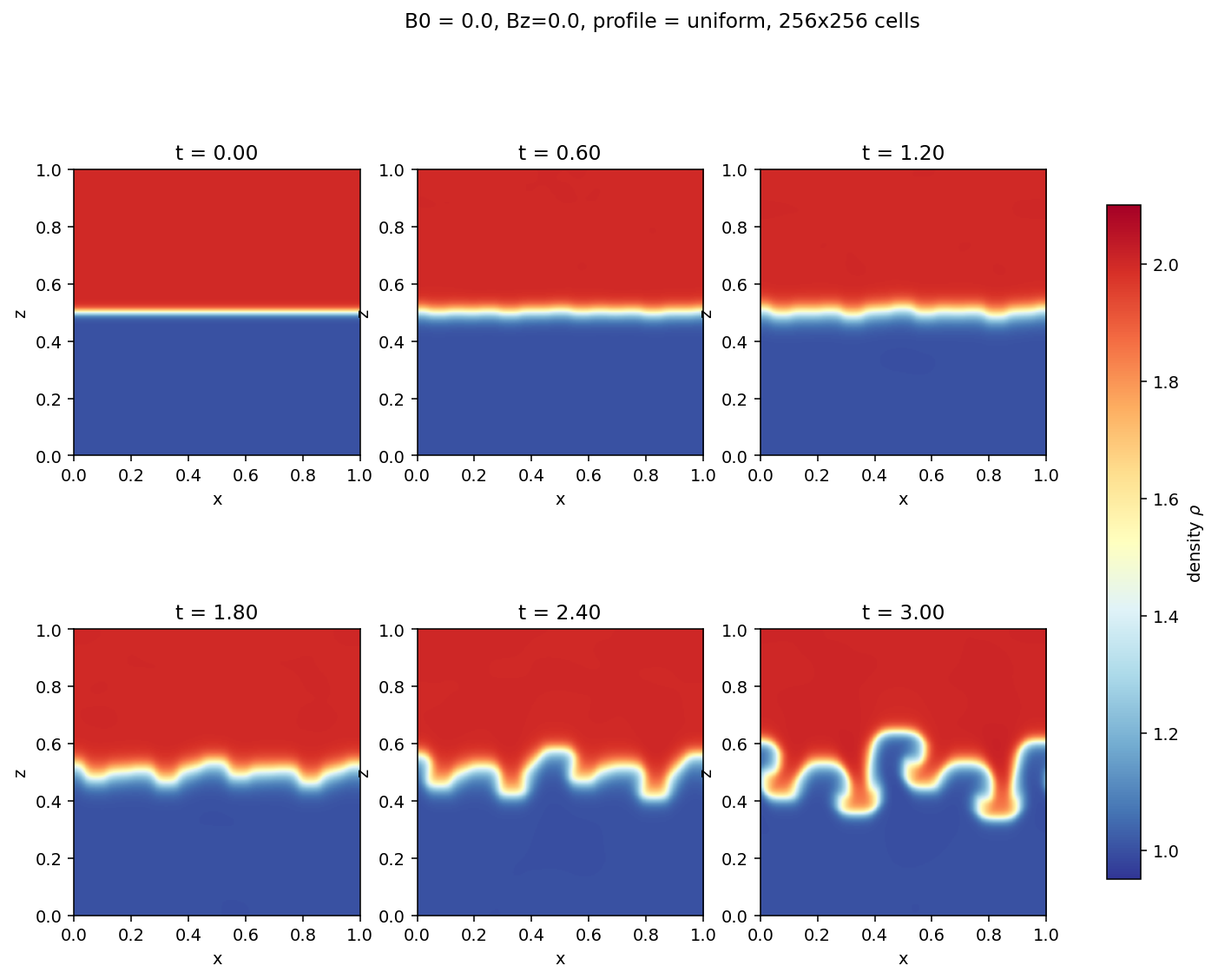
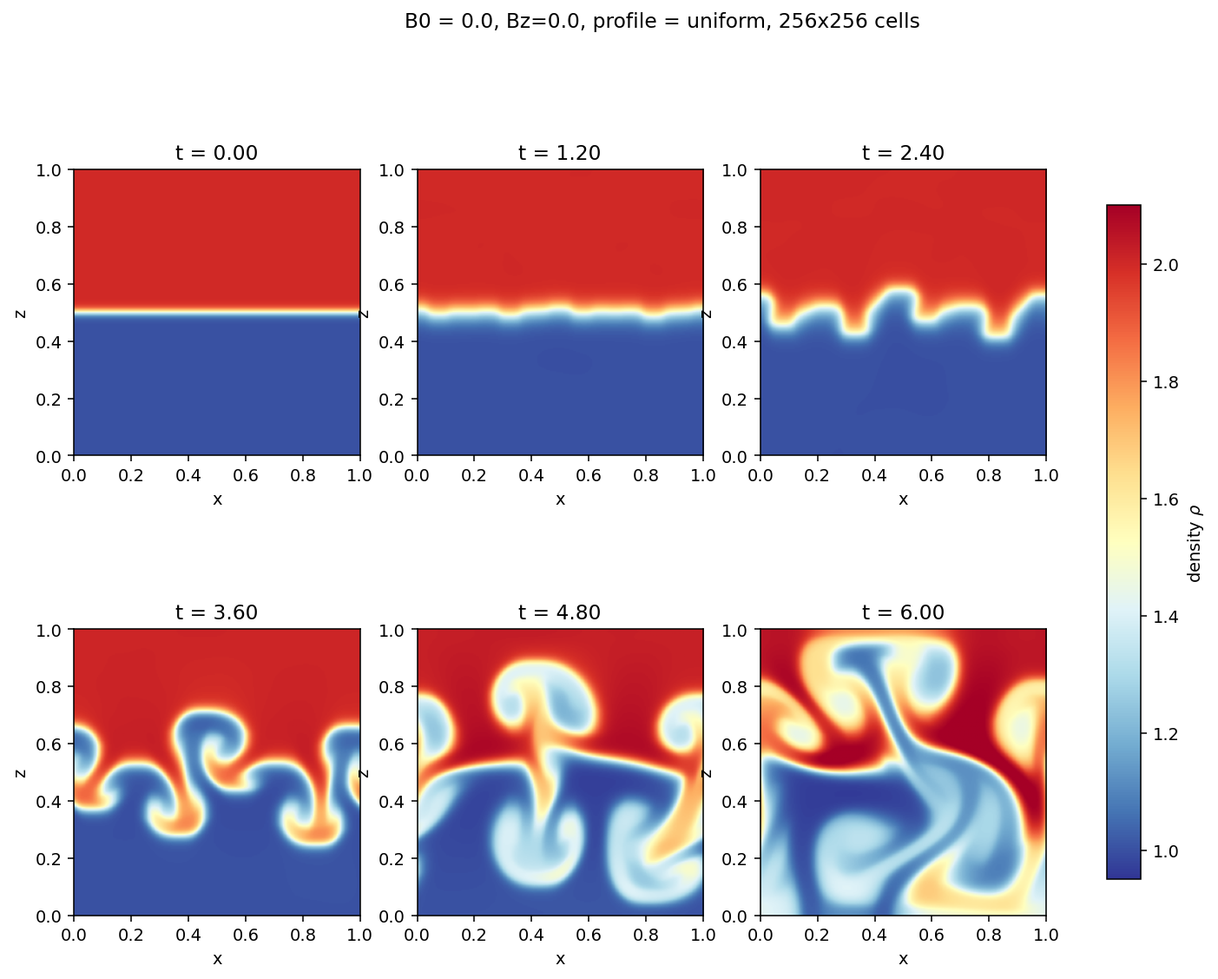
Updated the RTI project results

diff --git a/research_rti.html b/research_rti.html
@@ -148,14 +148,14 @@
                     <h2 class="text-2xl font-serif font-bold text-gray-900">Implications</h2>
                 </div>
                 <p class="text-gray-600 text-sm leading-relaxed text-justify">
-                    Our results confirm that a critical magnetic field $B_c$ exists. If $B > B_c$, the instability is completely suppressed. This explains why certain astrophysical boundaries remain sharp despite strong density contrasts—magnetic tension acts as a "skin" holding the fluid interface together.
+                    Our results confirm that a critical magnetic field $B_c$ exists. If $B > B_c$, the instability is completely suppressed. This explains why certain astrophysical boundaries remain sharp despite strong density contrasts, magnetic tension acts as a "skin" holding the fluid interface together.
                 </p>
             </section>
             <section id="documentation" class="bg-teal-800 text-white rounded-xl p-8 shadow-md">
                 <div class="flex flex-col items-start">
                     <h3 class="text-2xl font-serif font-bold mb-4">Detailed Project Report</h3>
                     <p class="text-slate-300 text-sm mb-6 w-full">
-                        Access the full detailed derivation of effect of magnetic field in supressing RTI including stability region plots and 2-D finite volume analysis code.
+                        Access the full detailed derivation of effect of magnetic field in suppressing RTI including stability region plots and 2-D finite volume analysis code.
                     </p>
                     <a href="RTI in stellar interior.pdf" target="_blank" class="flex items-center px-6 py-3 bg-white text-teal-900 rounded-lg font-bold hover:bg-teal-400 transition-colors shadow-lg group">
                         <i class="fa-solid fa-file-pdf text-xl mr-3 text-teal-600 group-hover:text-slate-900 transition-colors"></i>
@@ -163,6 +163,50 @@
                     </a>
                 </div>
             </section>
+
+             <!-- Embedded Interactive Plot 1: Magnetic Field Stabilization -->
+            <div class="grid grid-cols-1 gap-6 pt-2">
+                <section class="bg-white p-5 rounded-2xl shadow-sm border border-gray-200">
+                    <div class="flex justify-between items-center mb-3 gap-2">
+                        <h3 class="text-lg font-serif font-bold text-gray-900">Magnetic Field Stabilization</h3>
+                        <div class="text-xs text-gray-400 shrink-0">
+                            <i class="fa-solid fa-cube mr-1"></i> Interactive 3D Surface
+                        </div>
+                    </div>
+                    <p class="text-xs text-gray-500 mb-3">
+                        Growth Rate Squared ($\gamma^2$) vs Wavenumber ($k$) and Magnetic Field ($B$). The "valley" indicates stability.
+                    </p>
+                    <div class="h-[320px] w-full border border-gray-100 rounded-lg overflow-hidden bg-white relative">
+                        <iframe src="mag_field.html" title="Magnetic Field Plot" class="w-full h-full border-none">
+                            <p>Your browser does not support iframes. Please open mag_field.html directly.</p>
+                        </iframe>
+                    </div>
+                    <p class="text-xs text-red-400 mt-2 hidden" id="error-msg-1">
+                        <i class="fa-solid fa-triangle-exclamation mr-1"></i> Note: 'mag_field.html' must be in the same directory for this plot to load.
+                    </p>
+                </section>
+
+                <!-- Embedded Interactive Plot 2: Stability Threshold -->
+                <section class="bg-white p-5 rounded-2xl shadow-sm border border-gray-200">
+                    <div class="flex justify-between items-center mb-3 gap-2">
+                        <h3 class="text-lg font-serif font-bold text-gray-900">Stability Threshold Surface</h3>
+                        <div class="text-xs text-gray-400 shrink-0">
+                            <i class="fa-solid fa-cube mr-1"></i> Interactive 3D Surface
+                        </div>
+                    </div>
+                    <p class="text-xs text-gray-500 mb-3">
+                        Critical magnetic field required to suppress the instability as a function of wavenumber and mode parameters.
+                    </p>
+                    <div class="h-[320px] w-full border border-gray-100 rounded-lg overflow-hidden bg-white relative">
+                        <iframe src="threshold_surface.html" title="Threshold Surface Plot" class="w-full h-full border-none">
+                            <p>Your browser does not support iframes. Please open threshold_surface.html directly.</p>
+                        </iframe>
+                    </div>
+                    <p class="text-xs text-red-400 mt-2 hidden" id="error-msg-2">
+                        <i class="fa-solid fa-triangle-exclamation mr-1"></i> Note: 'threshold_surface.html' must be in the same directory for this plot to load.
+                    </p>
+                </section>
+            </div>
         </div>
 
         <!-- Right Column: Visuals & Synthesis -->
@@ -190,25 +234,26 @@
                     Simulation showing the evolution of density. Note the formation of characteristic Kelvin-Helmholtz mushroom structures on the spikes as the instability grows.
                 </p>
             </section>
-
-            
             <!-- Simulation Snapshots: interactive viewer -->
         <section id="snapshots" class="bg-white p-6 rounded-2xl shadow-sm border border-gray-200">
             <div class="flex flex-wrap justify-between items-center gap-2 mb-2">
-                <h3 class="text-lg font-serif font-bold text-gray-900">Simulation Snapshots: Field Geometry Study</h3>
-                <span class="bg-teal-100 text-teal-800 text-xs px-3 py-1 rounded-full font-medium">5 runs</span>
+                <h3 class="text-lg font-serif font-bold text-gray-900">Mode Study: Short Wavelengths Are Stabilized First</h3>
+                <span class="bg-teal-100 text-teal-800 text-xs px-3 py-1 rounded-full font-medium">13 runs</span>
             </div>
             <p class="text-sm text-gray-500 mb-4">
-                Density at six times for each run, with magnetic field lines in black. Pick a run, or compare two side by side. Click an image to enlarge it.
+                Each run perturbs the interface with a single mode <em>m</em> (the number of wavelengths across the box) under a horizontal field B₀. Density is colored and field lines are black. The matrix maps the outcome: high-<em>m</em> (short-wavelength) modes are suppressed first, and the cutoff moves to longer wavelengths as B₀ increases.
             </p>
 
             <div class="flex flex-wrap items-center justify-between gap-3 mb-4">
-                <div id="snap-tabs" role="tablist" aria-label="Simulation runs" class="flex flex-wrap gap-2"></div>
-                <label class="flex items-center gap-2 text-xs text-gray-600 cursor-pointer select-none">
-                    <input type="checkbox" id="snap-compare" class="accent-teal-700"> Compare two runs
-                </label>
+                <div id="snap-modes" role="tablist" class="inline-flex rounded-full border border-gray-200 p-0.5 bg-gray-50 text-xs font-medium">
+                    <button type="button" role="tab" data-mode="explore">Explore</button>
+                    <button type="button" role="tab" data-mode="compare">Compare</button>
+                </div>
+                <div id="snap-legend" class="flex flex-wrap gap-3 text-xs text-gray-600"></div>
             </div>
 
+            <div id="snap-matrix" class="mb-5"></div>
+            <div id="snap-compare-bar" class="hidden mb-5 flex-wrap items-center gap-2"></div>
             <div id="snap-view" class="grid gap-6"></div>
         </section>
 
@@ -223,62 +268,110 @@
 
         <script>
         (() => {
-            // Ordered as a progression: no field -> vertical -> horizontal (strong, weak) -> tilted
+            const ST = {
+                grows:  { label: 'Grows',       short: 'grows',  dot: 'bg-rose-500',  badge: 'bg-rose-50 text-rose-700 border-rose-200' },
+                weak:   { label: 'Weak growth', short: 'weak',   dot: 'bg-amber-400', badge: 'bg-amber-50 text-amber-700 border-amber-200' },
+                stable: { label: 'Suppressed',  short: 'stable', dot: 'bg-teal-600',  badge: 'bg-teal-50 text-teal-700 border-teal-200' }
+            };
+
+            // Horizontal-field mode study: B0 x mode m (t = 0 – 6.0)
+            const mk = (b0, m, s, note) => ({
+                b0, m, s, note,
+                label: `B₀ = ${b0}, m = ${m}`,
+                file: `B0.${Math.round(b0 * 10)}_0_(${m},)_uniform_256x256.png`,
+                alt: `Magneto-RTI with B0 = ${b0}, mode m = ${m}: ${ST[s].label.toLowerCase()}`,
+                params: [['B₀', b0], ['B_z', '0'], ['mode m', m], ['grid', '256×256'], ['t', '0 – 6.0']]
+            });
+
             const runs = [
                 {
-                    label: 'No field',
+                    b0: 0, m: null, s: 'grows', label: 'No field (B₀ = B_z = 0)',
                     file: 'RTI_No_Field.png',
-                    alt: 'Hydrodynamic RTI: density snapshots from t=0 to 3.0 showing spikes rolling into mushroom caps',
-                    params: [['B₀', '0'], ['B_z', '0'], ['profile', 'uniform'], ['grid', '256×256'], ['t', '0 – 3.0']],
-                    note: 'Unmagnetised baseline. Perturbations grow into spikes and bubbles by t = 2.4, and at t = 3.0 the spikes roll up into mushroom caps.'
+                    alt: 'Unmagnetized RTI: spikes and bubbles by t = 2.4, mushroom caps by t = 3.0',
+                    params: [['B₀', '0'], ['B_z', '0'], ['grid', '256×256'], ['t', '0 – 3.0']],
+                    note: 'Unmagnetized baseline. Several fingers of different sizes grow at once; spikes and bubbles are clear by t = 2.4 and the spikes roll up into mushroom caps at t = 3.0. Note the shorter time range (to t = 3.0) compared with the mode-study runs (to t = 6.0).'
                 },
+                mk(0.1, 1, 'grows',  'Slow start, then one large bubble. By t = 6.0 the light fluid has risen to z ≈ 0.8, heavy fluid has fallen down both sides, and the interface rolls into a mushroom cap. At this field strength tension does little against the longest wavelength.'),
+                mk(0.1, 2, 'grows',  'Two bubbles form and roll up by t = 6.0. At t = 3.6 the interface is already more deformed than for m = 1, consistent with a growth rate that peaks at an intermediate wavenumber rather than at the longest one.'),
+                mk(0.1, 4, 'stable', 'Short-wavelength ripples stay small and never roll over. Their amplitude fluctuates (nearly gone at t = 4.8, back at t = 6.0) instead of growing, so tension holds this mode in check.'),
+                mk(0.1, 8, 'stable', 'No visible growth. The interface stays flat to t = 6.0, apart from slight smearing of the transition layer.'),
+                mk(0.2, 1, 'weak',   'The longest mode still grows, but slowly. By t = 6.0 it is a smooth bulge of moderate amplitude with no roll-up, and the field lines follow the interface.'),
+                mk(0.2, 2, 'stable', 'Only faint ripples appear (t = 1.2 – 2.4) and they die away. This mode rolled into mushroom caps at B₀ = 0.1; doubling the field suppresses it.'),
+                mk(0.2, 4, 'stable', 'Essentially flat from t = 2.4 onward. The small ripples seen at B₀ = 0.1 are gone.'),
+                mk(0.4, 1, 'stable', 'Even the longest wavelength is suppressed: the interface stays flat and the field lines remain straight through t = 6.0.'),
+                mk(0.4, 2, 'stable', 'Flat interface and straight field lines through t = 6.0.'),
+                mk(0.5, 1, 'stable', 'Strongest field in the set. The interface stays flat through t = 6.0.'),
                 {
-                    label: 'Vertical field',
+                    b0: 0, m: null, s: 'grows', label: 'Vertical field (B_z = 0.2)',
                     file: 'RTI_verticle_field.png',
-                    alt: 'RTI with vertical field Bz=0.2: interface stays flat until about t=1.8, then broad fingers form',
-                    params: [['B₀', '0'], ['B_z', '0.2'], ['profile', 'uniform'], ['grid', '256×256'], ['t', '0 – 3.0']],
-                    note: 'The field crosses the interface, so for perturbations along x we have k·B = 0 and tension offers no direct resistance. Growth is delayed compared with the baseline, and fingers still form by t = 3.0, dragging field lines with them. No mushroom caps yet.'
+                    alt: 'Magneto-RTI with vertical field Bz = 0.2: fingers form by t = 3.0',
+                    params: [['B₀', '0'], ['B_z', '0.2'], ['grid', '256×256'], ['t', '0 – 3.0']],
+                    note: 'Control run. The field crosses the interface, so k·B = 0 for perturbations along x and tension offers no resistance. Fingers form by t = 2.4 – 3.0 and drag the field lines with them. Compare with the horizontal-field runs.'
                 },
                 {
-                    label: 'Cross (B₀ = B_z = 0.2)',
+                    b0: 0.2, m: null, s: 'weak', label: 'Tilted field (B₀ = B_z = 0.2)',
                     file: 'RTI_Cross_Field.png',
-                    alt: 'RTI with tilted 45 degree field B0=0.2, Bz=0.2: interface mostly flat, field lines sweep into curves',
-                    params: [['B₀', '0.2'], ['B_z', '0.2'], ['profile', 'uniform'], ['grid', '256×256'], ['t', '0 – 3.0']],
+                    alt: 'Magneto-RTI with field tilted at 45 degrees: interface mostly flat to t = 3.0',
+                    params: [['B₀', '0.2'], ['B_z', '0.2'], ['grid', '256×256'], ['t', '0 – 3.0']],
                     note: 'The field starts at 45° to the interface. The interface stays largely flat, the field lines relax into long sweeping curves, and only a small distortion appears near x ≈ 0.4 at t = 3.0.'
-                },
-                {
-                    label: 'Horizontal, B₀ = 0.2, uniform',
-                    file: 'RTI_Horizontal.png',
-                    alt: 'RTI with horizontal field B0=0.2, exponential profile, 128x128 grid: interface stays near flat to t=2.5',
-                    params: [['B₀', '0.2'], ['B_z', '0'], ['profile', 'unifrorm'], ['grid', '128×128'], ['t', '0 – 2.5']],
-                    note: 'Weaker horizontal field: The interface stays close to flat, with only gentle bending of the field lines near it, showing the suppressing effect of magnetic tension.'
-                },
-                {
-                    label: 'Horizontal, B₀ = 0.4, uniform',
-                    file: 'RTI_Horizontal_Strong.png',
-                    alt: 'RTI with strong horizontal field B0=0.4: interface stays flat through t=3.0',
-                    params: [['B₀', '0.4'], ['B_z', '0'], ['profile', 'uniform'], ['grid', '256×256'], ['t', '0 – 3.0']],
-                    note: 'The interface stays flat through t = 3.0 and the field lines remain nearly straight. Tension along the field suppresses the perturbation, in line with the B² stabilising term in the dispersion relation.'
                 }
+            ];
 
+            const ROWS = [0.1, 0.2, 0.4, 0.5], COLS = [1, 2, 4, 8];
+            const find = (b0, m) => runs.findIndex(r => r.b0 === b0 && r.m === m);
+            const VERT = runs.findIndex(r => r.label.startsWith('Vertical'));
+            const TILT = runs.findIndex(r => r.label.startsWith('Tilted'));
+            const NOFIELD = runs.findIndex(r => r.label.startsWith('No field'));
+            const presets = [
+                ['B₀ = 0.1: m = 1 vs m = 8', find(0.1, 1), find(0.1, 8)],
+                ['B₀ = 0.1: m = 2 vs m = 4', find(0.1, 2), find(0.1, 4)],
+                ['m = 1: B₀ = 0.1 vs 0.5',   find(0.1, 1), find(0.5, 1)],
+                ['m = 2: B₀ = 0.1 vs 0.2',   find(0.1, 2), find(0.2, 2)],
+                ['No field vs B₀ = 0.4', NOFIELD, find(0.4, 1)],
+                ['Horizontal (0.4) vs vertical field', find(0.4, 1), VERT]
             ];
 
             const $ = id => document.getElementById(id);
-            const tabs = $('snap-tabs'), view = $('snap-view'), box = $('snap-lightbox');
-            let a = 0, b = 2, compare = false, zoomIdx = null;
+            const sec = $('snapshots'), view = $('snap-view'), matrix = $('snap-matrix'), bar = $('snap-compare-bar'), box = $('snap-lightbox');
+            let a = 0, b = find(0.1, 8), compare = false, side = false, zoomIdx = null;
+
+            $('snap-legend').innerHTML = Object.values(ST).map(s =>
+                `<span class="inline-flex items-center gap-1.5"><span class="w-2.5 h-2.5 rounded-full ${s.dot}"></span>${s.label}</span>`).join('');
 
             const chip = (k, v) =>
                 `<span class="px-2 py-1 rounded bg-gray-50 border border-gray-100 text-xs text-gray-700"><strong>${k}</strong> ${v}</span>`;
 
+            const cell = (i, text) => {
+                const r = runs[i], on = i === a;
+                return `<button type="button" data-run="${i}" aria-pressed="${on}" title="${r.label}: ${ST[r.s].label}"
+                    class="flex items-center justify-center gap-1.5 py-2 px-2 rounded-lg border text-xs font-medium transition-colors ${
+                        on ? 'border-teal-800 ring-2 ring-teal-600 bg-teal-50 text-teal-900' : 'border-gray-200 bg-white text-gray-700 hover:border-teal-600'}">
+                    <span class="w-2.5 h-2.5 rounded-full ${ST[r.s].dot}"></span>${text}</button>`;
+            };
+
+            function renderMatrix() {
+                const head = COLS.map(m => `<div class="text-center text-xs font-semibold text-gray-500">m = ${m}</div>`).join('');
+                const rows = ROWS.map(b0 =>
+                    `<div class="text-xs font-semibold text-gray-500 pr-1">B₀ = ${b0}</div>` +
+                    COLS.map(m => { const i = find(b0, m); return i < 0 ? '<div class="text-center text-gray-300 text-xs">–</div>' : cell(i, ST[runs[i].s].short); }).join('')
+                ).join('');
+                matrix.innerHTML = `
+                    <div class="grid grid-cols-[auto_repeat(4,minmax(0,1fr))] gap-2 items-center"><div></div>${head}${rows}</div>
+                    <div class="flex flex-wrap items-center gap-2 mt-3">
+                        <span class="text-xs font-semibold text-gray-500">Reference runs:</span>
+                        ${cell(NOFIELD, 'No field')}${cell(VERT, 'Vertical B_z')}${cell(TILT, 'Tilted 45°')}
+                    </div>`;
+            }
+
             function panel(idx, which) {
-                const r = runs[idx];
-                const select = compare
-                    ? `<select data-which="${which}" aria-label="Run ${which === 'a' ? 'A' : 'B'}" class="snap-select w-full mb-2 border border-gray-200 rounded-lg text-sm px-2 py-1.5 bg-white">
-                         ${runs.map((x, i) => `<option value="${i}" ${i === idx ? 'selected' : ''}>${x.label}</option>`).join('')}
-                       </select>`
-                    : '';
+                const r = runs[idx], st = ST[r.s];
+                const head = compare
+                    ? `<select data-which="${which}" aria-label="Run ${which === 'a' ? 'A' : 'B'}" class="snap-select flex-1 min-w-0 border border-gray-200 rounded-lg text-sm px-2 py-1.5 bg-white">
+                         ${runs.map((x, i) => `<option value="${i}" ${i === idx ? 'selected' : ''}>${x.label}</option>`).join('')}</select>`
+                    : `<span class="text-sm font-semibold text-gray-800">${r.label}</span>`;
                 return `<figure>
-                    ${select}
+                    <div class="flex items-center justify-between gap-2 mb-2">${head}
+                        <span class="shrink-0 text-xs px-2 py-0.5 rounded-full border ${st.badge}">${st.label}</span></div>
                     <button type="button" data-zoom="${idx}" class="block w-full rounded-lg overflow-hidden border border-gray-100 cursor-zoom-in focus:outline-none focus-visible:ring-2 focus-visible:ring-teal-600">
                         <img src="${r.file}" alt="${r.alt}" loading="lazy" class="w-full h-auto">
                     </button>
@@ -288,12 +381,20 @@
             }
 
             function render() {
-                tabs.classList.toggle('hidden', compare);
-                tabs.innerHTML = runs.map((r, i) =>
-                    `<button type="button" role="tab" data-tab="${i}" aria-selected="${i === a}" class="px-3 py-1.5 rounded-full text-xs font-medium border transition-colors ${
-                        i === a ? 'bg-teal-800 text-white border-teal-800' : 'bg-white text-gray-700 border-gray-200 hover:border-teal-600'}">${r.label}</button>`
-                ).join('');
-                view.className = compare ? 'grid gap-6 lg:grid-cols-2' : 'grid gap-6';
+                sec.querySelectorAll('[data-mode]').forEach(btn => {
+                    const on = (btn.dataset.mode === 'compare') === compare;
+                    btn.setAttribute('aria-selected', on);
+                    btn.className = 'px-4 py-1.5 rounded-full transition-colors ' + (on ? 'bg-teal-800 text-white' : 'text-gray-600 hover:text-teal-800');
+                });
+                matrix.classList.toggle('hidden', compare);
+                bar.classList.toggle('hidden', !compare);
+                bar.classList.toggle('flex', compare);
+                if (compare) {
+                    bar.innerHTML = presets.map((p, i) =>
+                        `<button type="button" data-preset="${i}" class="px-3 py-1.5 rounded-full text-xs font-medium border bg-white text-gray-700 border-gray-200 hover:border-teal-600">${p[0]}</button>`).join('') +
+                        `<button type="button" data-layout class="ml-auto px-3 py-1.5 rounded-full text-xs font-medium border border-teal-800 text-teal-800 hover:bg-teal-50">${side ? 'Stack vertically' : 'Side by side'}</button>`;
+                } else renderMatrix();
+                view.className = compare && side ? 'grid gap-6 md:grid-cols-2' : 'grid gap-6';
                 view.innerHTML = compare ? panel(a, 'a') + panel(b, 'b') : panel(a, 'a');
                 view.querySelectorAll('img').forEach(img => img.addEventListener('error', () => {
                     const p = document.createElement('p');
@@ -308,7 +409,7 @@
                 const r = runs[zoomIdx];
                 $('snap-big').src = r.file;
                 $('snap-big').alt = r.alt;
-                $('snap-big-cap').textContent = r.label + '  (' + (zoomIdx + 1) + ' / ' + runs.length + ')';
+                $('snap-big-cap').textContent = `${r.label} – ${ST[r.s].label}  (${zoomIdx + 1} / ${runs.length})`;
                 box.classList.remove('hidden');
                 box.classList.add('flex');
             }
@@ -318,30 +419,33 @@
                 box.classList.remove('flex');
             }
 
-            tabs.addEventListener('click', e => {
-                const t = e.target.closest('[data-tab]');
-                if (t) { a = +t.dataset.tab; render(); }
-            });
-            tabs.addEventListener('keydown', e => {
-                if (e.key !== 'ArrowRight' && e.key !== 'ArrowLeft') return;
-                a = (a + (e.key === 'ArrowRight' ? 1 : -1) + runs.length) % runs.length;
+            sec.addEventListener('click', e => {
+                const t = e.target.closest('[data-run],[data-mode],[data-preset],[data-layout],[data-zoom]');
+                if (!t) return;
+                if (t.dataset.zoom !== undefined) return showZoom(+t.dataset.zoom);
+                if (t.dataset.run !== undefined) a = +t.dataset.run;
+                else if (t.dataset.mode) {
+                    compare = t.dataset.mode === 'compare';
+                    if (compare && a === b) b = (a + 1) % runs.length;
+                } else if (t.dataset.preset !== undefined) [, a, b] = presets[+t.dataset.preset];
+                else if (t.dataset.layout !== undefined) side = !side;
                 render();
-                tabs.querySelector(`[data-tab="${a}"]`).focus();
             });
-            view.addEventListener('click', e => {
-                const z = e.target.closest('[data-zoom]');
-                if (z) showZoom(+z.dataset.zoom);
-            });
-            view.addEventListener('change', e => {
+            sec.addEventListener('change', e => {
                 if (!e.target.matches('.snap-select')) return;
                 if (e.target.dataset.which === 'a') a = +e.target.value; else b = +e.target.value;
                 render();
             });
-            $('snap-compare').addEventListener('change', e => {
-                compare = e.target.checked;
-                if (compare && a === b) b = (a + 1) % runs.length;
+            // Arrow keys step through runs while the matrix has focus
+            matrix.addEventListener('keydown', e => {
+                if (e.key !== 'ArrowRight' && e.key !== 'ArrowLeft') return;
+                e.preventDefault();
+                a = (a + (e.key === 'ArrowRight' ? 1 : -1) + runs.length) % runs.length;
                 render();
+                const f = matrix.querySelector(`[data-run="${a}"]`);
+                if (f) f.focus();
             });
+
             $('snap-close').addEventListener('click', closeZoom);
             $('snap-prev').addEventListener('click', () => showZoom(zoomIdx - 1));
             $('snap-next').addEventListener('click', () => showZoom(zoomIdx + 1));
@@ -356,54 +460,6 @@
             render();
         })();
         </script>
-
-        </div>
-        <div class="lg:col-span-3 grid grid-cols-1 xl:grid-cols-2 gap-8 items-stretch">
-        <!-- Embedded Interactive Plot 1: Magnetic Field Stabilization -->
-            <section class="bg-white p-6 rounded-2xl shadow-sm border border-gray-200">
-                <div class="flex justify-between items-center mb-4">
-                    <h3 class="text-lg font-serif font-bold text-gray-900">Magnetic Field Stabilization</h3>
-                    <div class="text-xs text-gray-400">
-                        <i class="fa-solid fa-cube mr-1"></i> Interactive 3D Surface
-                    </div>
-                </div>
-                <p class="text-sm text-gray-500 mb-4">
-                    Growth Rate Squared ($\gamma^2$) vs Wavenumber ($k$) and Magnetic Field ($B$). The "valley" indicates stability.
-                </p>
-                
-                <div class="h-[500px] w-full border border-gray-100 rounded-lg overflow-hidden bg-white relative">
-                     <!-- EMBEDDED IFRAME FOR mag_field.html -->
-                     <iframe src="mag_field.html" title="Magnetic Field Plot" class="w-full h-full border-none">
-                         <p>Your browser does not support iframes. Please open mag_field.html directly.</p>
-                     </iframe>
-                </div>
-                <p class="text-xs text-red-400 mt-2 hidden" id="error-msg-1">
-                    <i class="fa-solid fa-triangle-exclamation mr-1"></i> Note: 'mag_field.html' must be in the same directory for this plot to load.
-                </p>
-            </section>
-
-            <!-- Embedded Interactive Plot 2: Stability Threshold -->
-            <section class="bg-white p-6 rounded-2xl shadow-sm border border-gray-200">
-                <div class="flex justify-between items-center mb-4">
-                    <h3 class="text-lg font-serif font-bold text-gray-900">Stability Threshold Surface</h3>
-                    <div class="text-xs text-gray-400">
-                        <i class="fa-solid fa-cube mr-1"></i> Interactive 3D Surface
-                    </div>
-                </div>
-                <p class="text-sm text-gray-500 mb-4">
-                </p>
-                
-                <div class="h-[500px] w-full border border-gray-100 rounded-lg overflow-hidden bg-white relative">
-                    <!-- EMBEDDED IFRAME FOR threshold_surface.html -->
-                    <iframe src="threshold_surface.html" title="Threshold Surface Plot" class="w-full h-full border-none">
-                        <p>Your browser does not support iframes. Please open threshold_surface.html directly.</p>
-                    </iframe>
-                </div>
-                <p class="text-xs text-red-400 mt-2 hidden" id="error-msg-2">
-                    <i class="fa-solid fa-triangle-exclamation mr-1"></i> Note: 'threshold_surface.html' must be in the same directory for this plot to load.
-                </p>
-            </section>
-            </div>
 
     </main>
 
